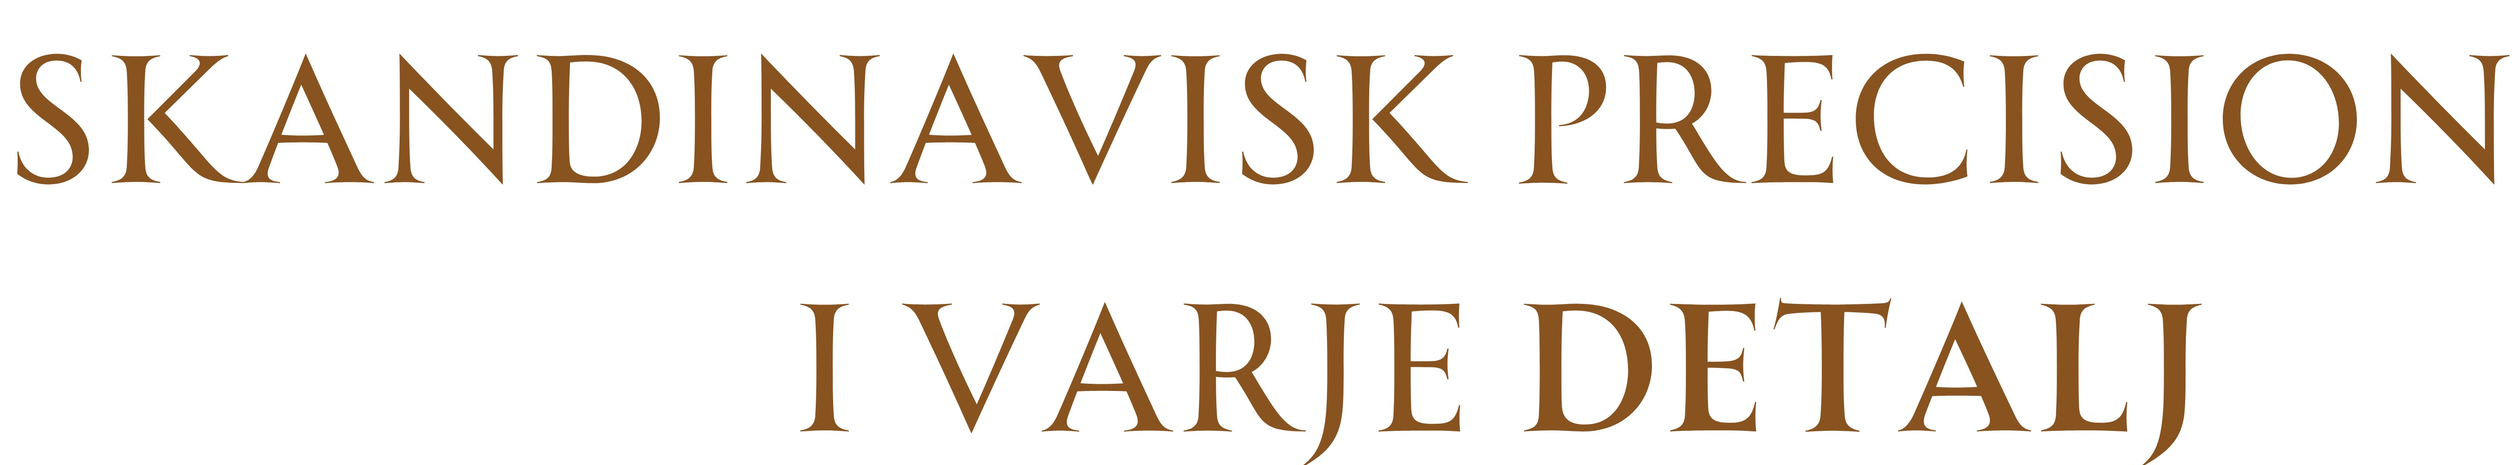
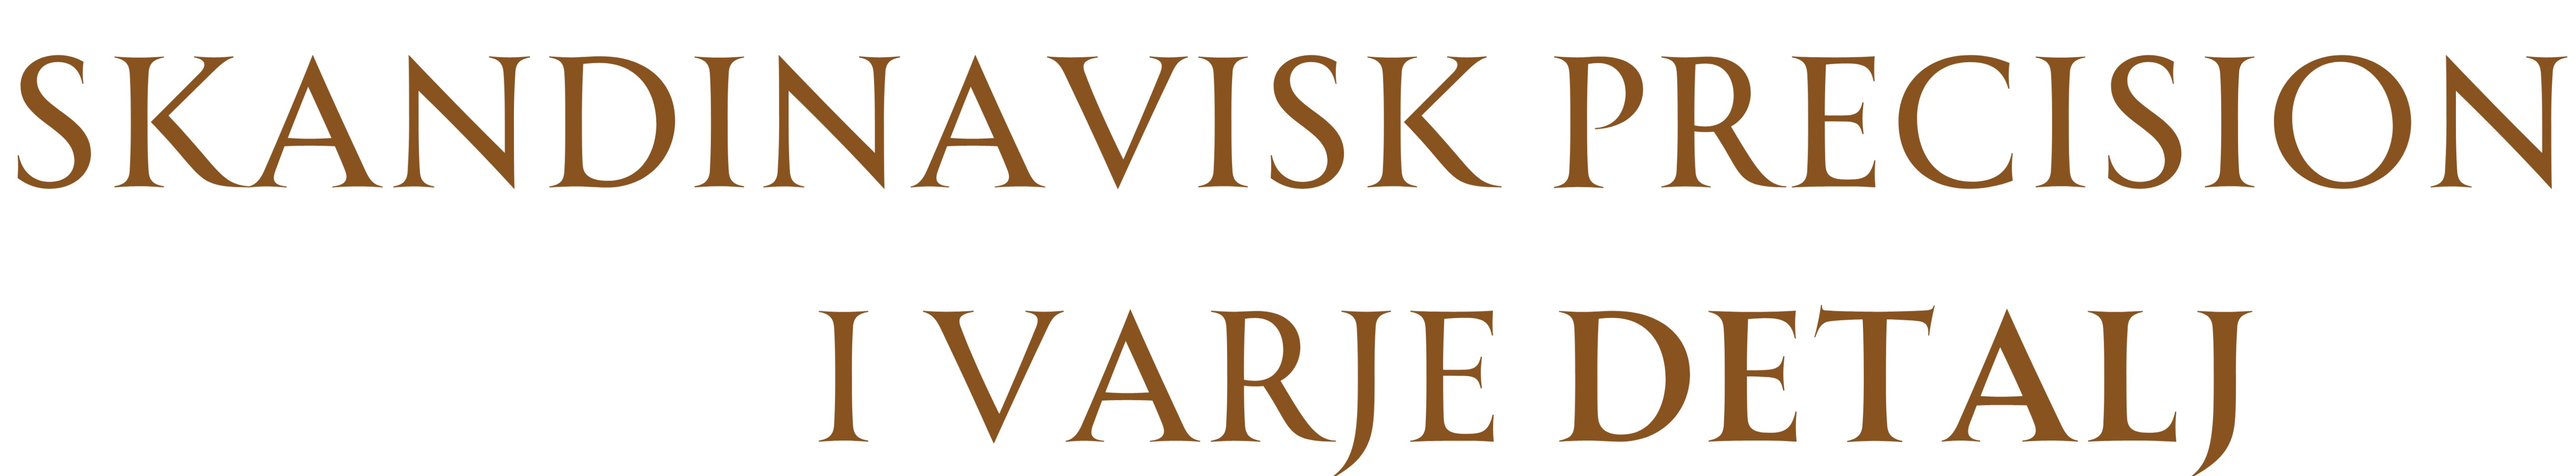
Vol-12

diff --git a/src/page/Projects.jsx b/src/page/Projects.jsx
@@ -14,9 +14,9 @@ import Slide10 from "../assets/images/Slide10.PNG";
 import Slide11 from "../assets/images/Slide11.PNG";
 import Slide12 from "../assets/images/Slide12.PNG";
 import { Image, Box, Flex } from "@chakra-ui/react";
-import photoImgEn from "../assets/images/photoEn.png";
-import photoImgPl from "../assets/images/photoPl.png";
-import photoImgSv from "../assets/images/photoSv.png";
+import projectEn from "../assets/images/projectsEn.png";
+import projectPl from "../assets/images/projectsPl.png";
+import projectSv from "../assets/images/projectsSv.png";
 import { LanguageContext } from "../services/LanguageContext";
 
 const AutoplaySlider = withAutoplay(AwesomeSlider);
@@ -25,16 +25,21 @@ const Projects = forwardRef((props, ref) => {
   const { selectedLanguage } = useContext(LanguageContext);
 
   const languageImageMap = {
-    en: photoImgEn,
-    pl: photoImgPl,
-    sv: photoImgSv,
+    en: projectEn,
+    pl: projectPl,
+    sv: projectSv,
   };
 
   return (
     <div ref={ref}>
       <Flex p={10} justifyContent="center" alignItems="center" maxH="10rem">
         <Box position="relative" display="inline-block">
-          <Image src={languageImageMap[selectedLanguage]} maxH="4rem" />
+          <Image
+            src={languageImageMap[selectedLanguage]}
+            maxH={{ base: "1.8rem", md: "4rem" }}
+            maxW={{ base: "35rem", md: "39rem" }}
+            objectFit="cover"
+          />
           <Box
             position="absolute"
             bottom="-1rem"
@@ -75,9 +80,7 @@ const Projects = forwardRef((props, ref) => {
         <div data-src={Slide11} />
         <div data-src={Slide12} />
       </AutoplaySlider>
-      <Box
-        boxShadow="lg"
-      >&nbsp;</Box>
+      <Box boxShadow="lg">&nbsp;</Box>
     </div>
   );
 });

diff --git a/src/page/Contact.jsx b/src/page/Contact.jsx
@@ -25,10 +25,11 @@ const Contact = forwardRef((props, ref) => {
     const USER_ID = process.env.REACT_APP_USER_ID;
 
     const formData = {
-      from_name: e.target.elements.from_name.value,
-      to_name: recipientName,
+      from_firstname: e.target.elements.from_firstname.value,
+      from_lastname: recipientName,
       message: e.target.elements.message.value,
       user_email: e.target.elements.user_email.value,
+      user_telefon: e.target.elements.user_telefon.value,
     };
 
     emailjs
@@ -76,7 +77,7 @@ const Contact = forwardRef((props, ref) => {
             </FormLabel>
             <Input
               size="lg"
-              name="from_name"
+              name="from_firstname"
               w="100%"
               borderColor="#5a351d"
               required
@@ -88,7 +89,7 @@ const Contact = forwardRef((props, ref) => {
             </FormLabel>
             <Input
               size="lg"
-              name="to_name"
+              name="from_lastname"
               w="100%"
               borderColor="#5a351d"
               onChange={handleRecipientNameChange}
